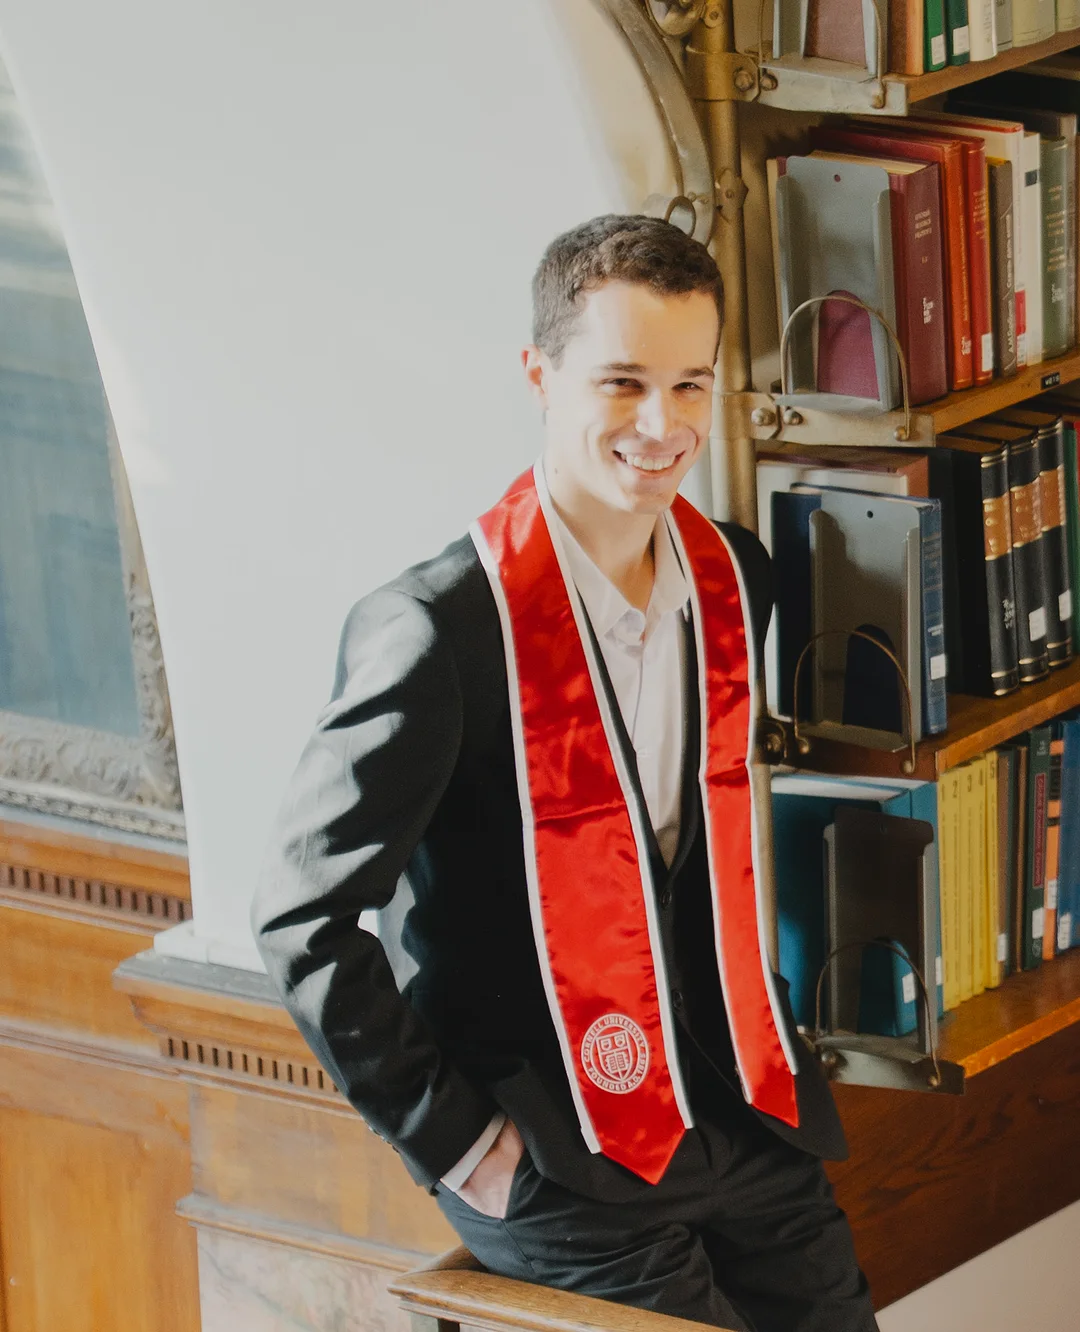
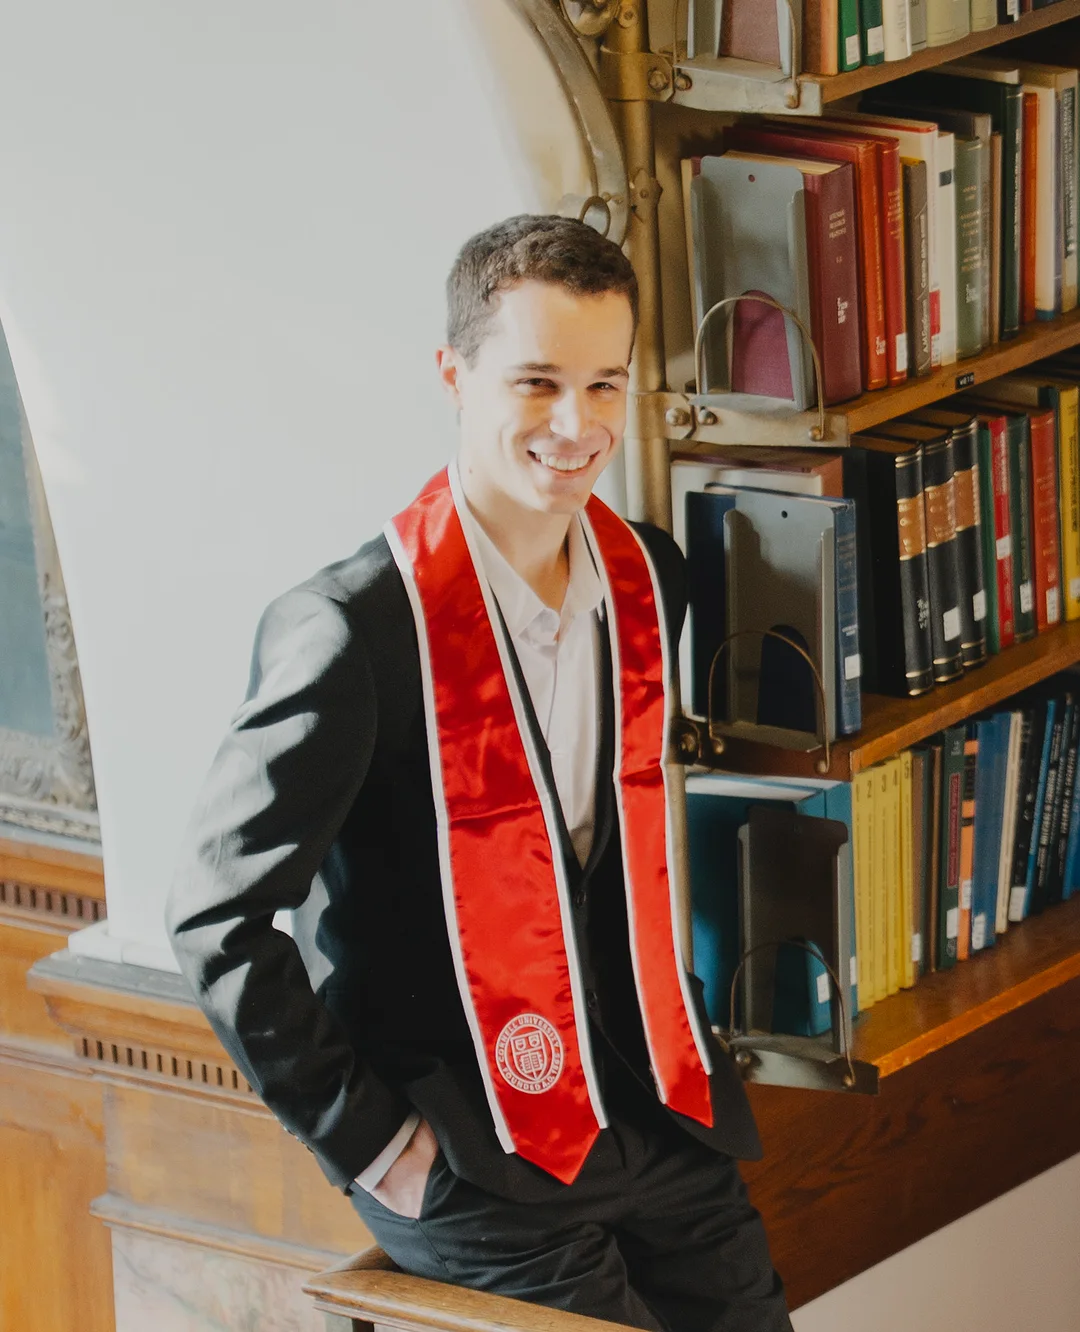
fix: centre the portrait crop, say "Attained 45/45" for the IB

diff --git a/index.html b/index.html
@@ -562,7 +562,7 @@
   <ol class="edu" aria-labelledby="education-h">
     <li><div class="edu-n">Cornell University</div><div class="edu-d">BS Computer Science, minor in Linguistics</div><div class="edu-y">Aug&nbsp;2023&nbsp;– Dec&nbsp;2026 · <b>4.0+&nbsp;GPA</b></div><p>Activities: Language Expansion Program, Startup Hours, Digital Tech &amp; Innovation, Armada.</p></li>
     <li><div class="edu-n">HKUST</div><div class="edu-d">Summer Exchange Student, Computer Science &amp; Physics</div><div class="edu-y">Jun&nbsp;2024&nbsp;– Aug&nbsp;2024</div><p>Took COMP 3311: Database Management Systems and PHYS 1114: General Physics II whilst abroad that summer. Simultaneously worked on two summer jobs and two SaaS startups.</p></li>
-    <li><div class="edu-n">Park Lane International School</div><div class="edu-y">Sep&nbsp;2019&nbsp;– May&nbsp;2023</div><p>Sustained <b>45/45</b> for the International Baccalaureate.</p></li>
+    <li><div class="edu-n">Park Lane International School</div><div class="edu-y">Sep&nbsp;2019&nbsp;– May&nbsp;2023</div><p>Attained <b>45/45</b> for the International Baccalaureate.</p></li>
   </ol>
 </section>
 
